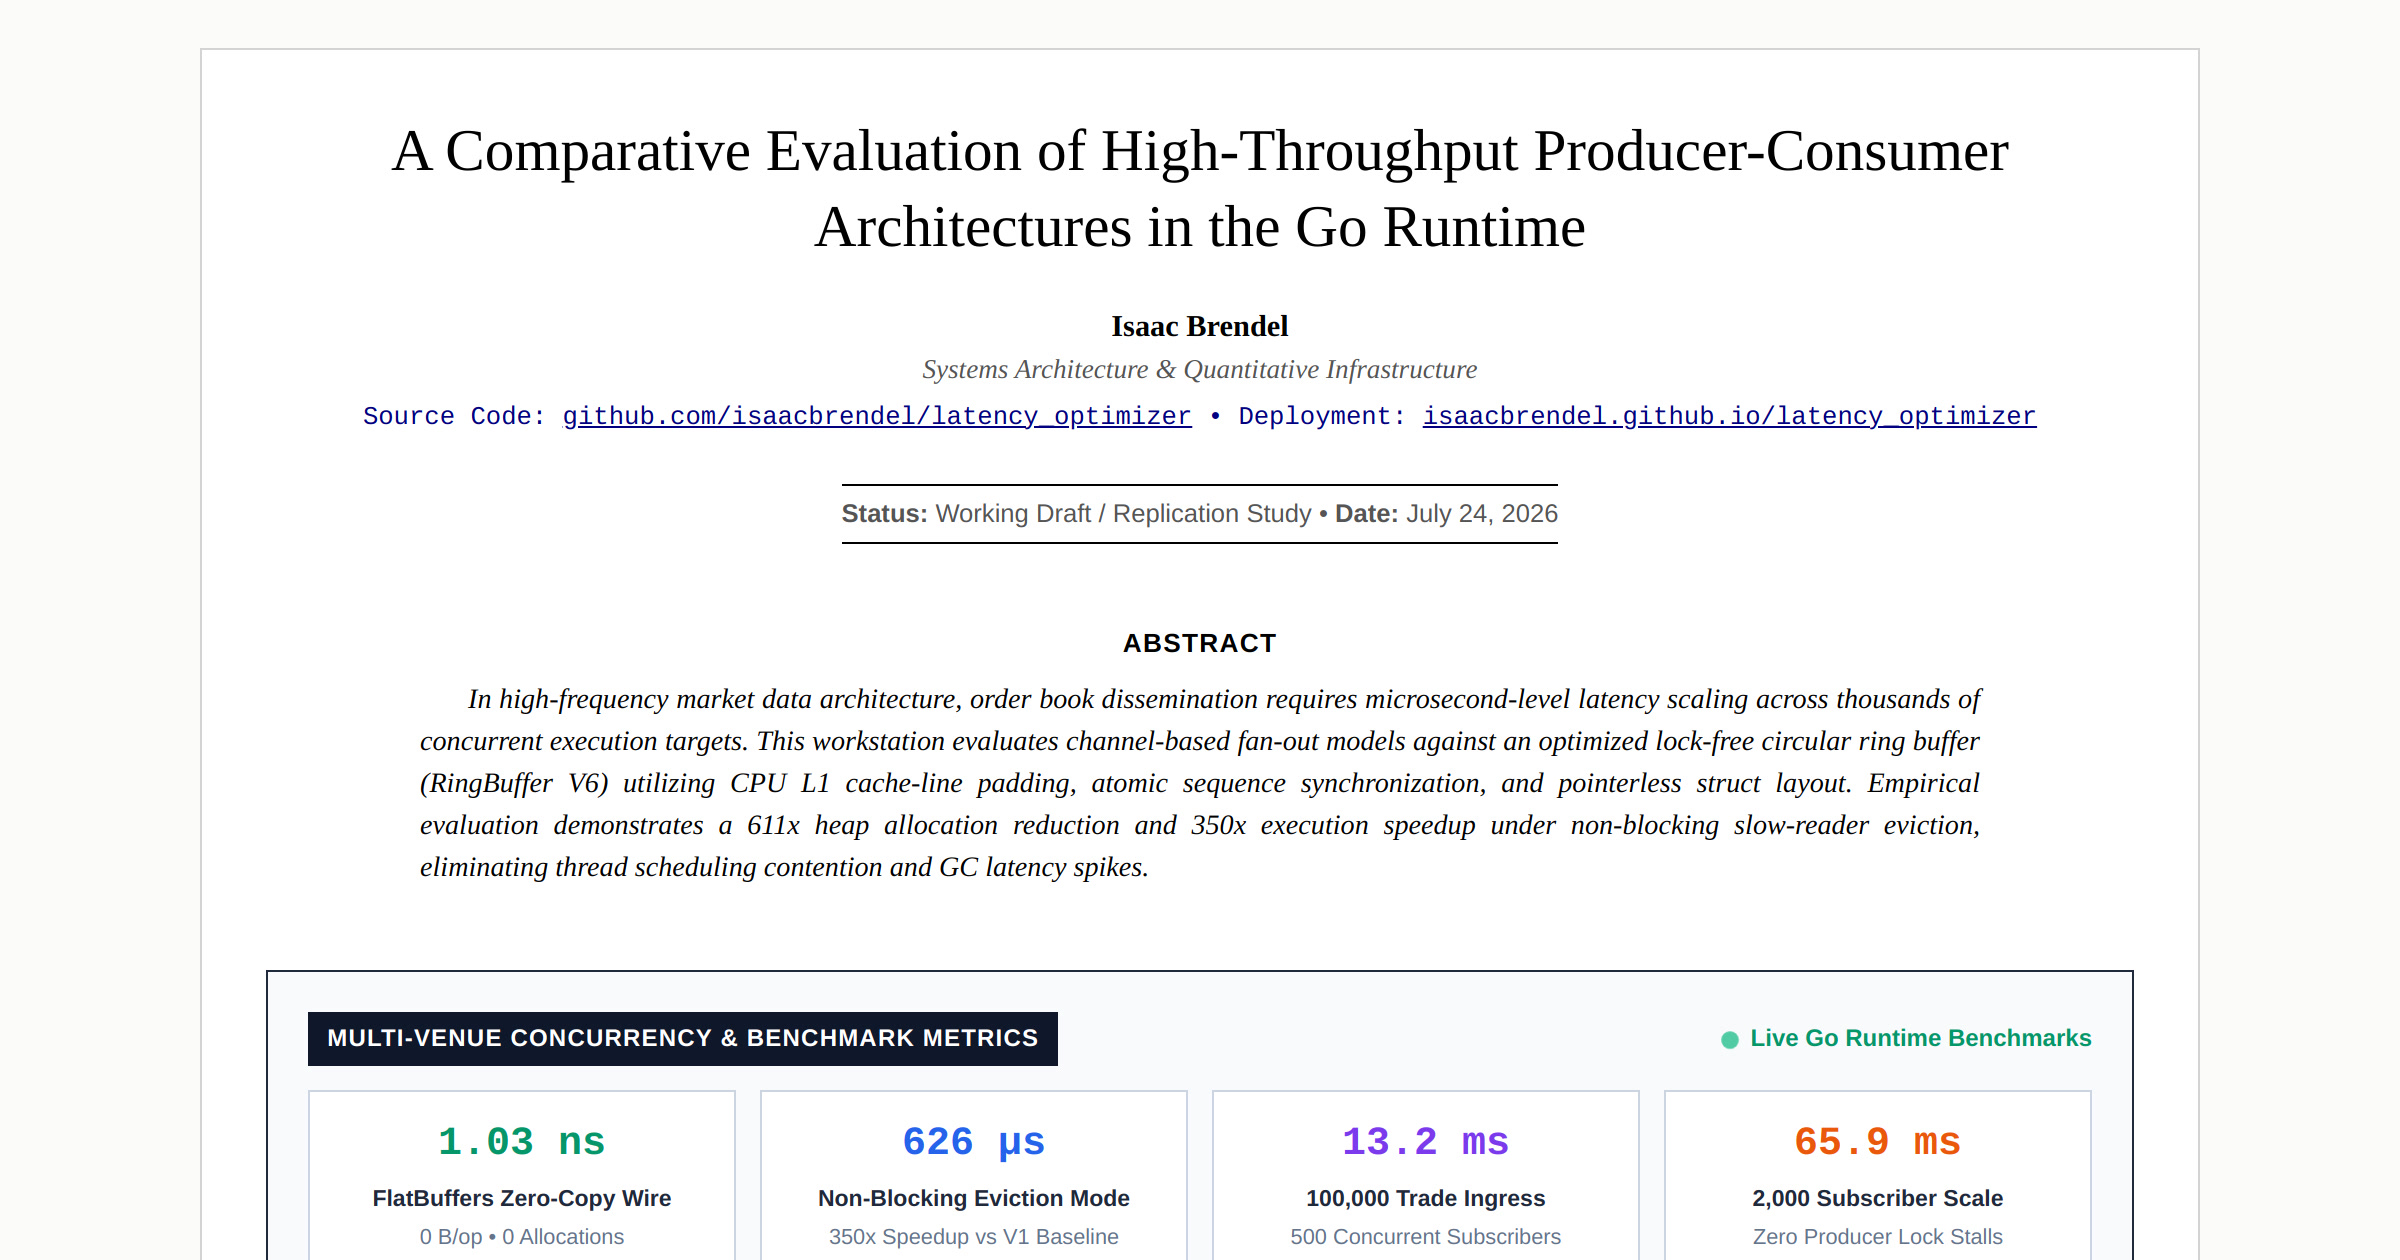
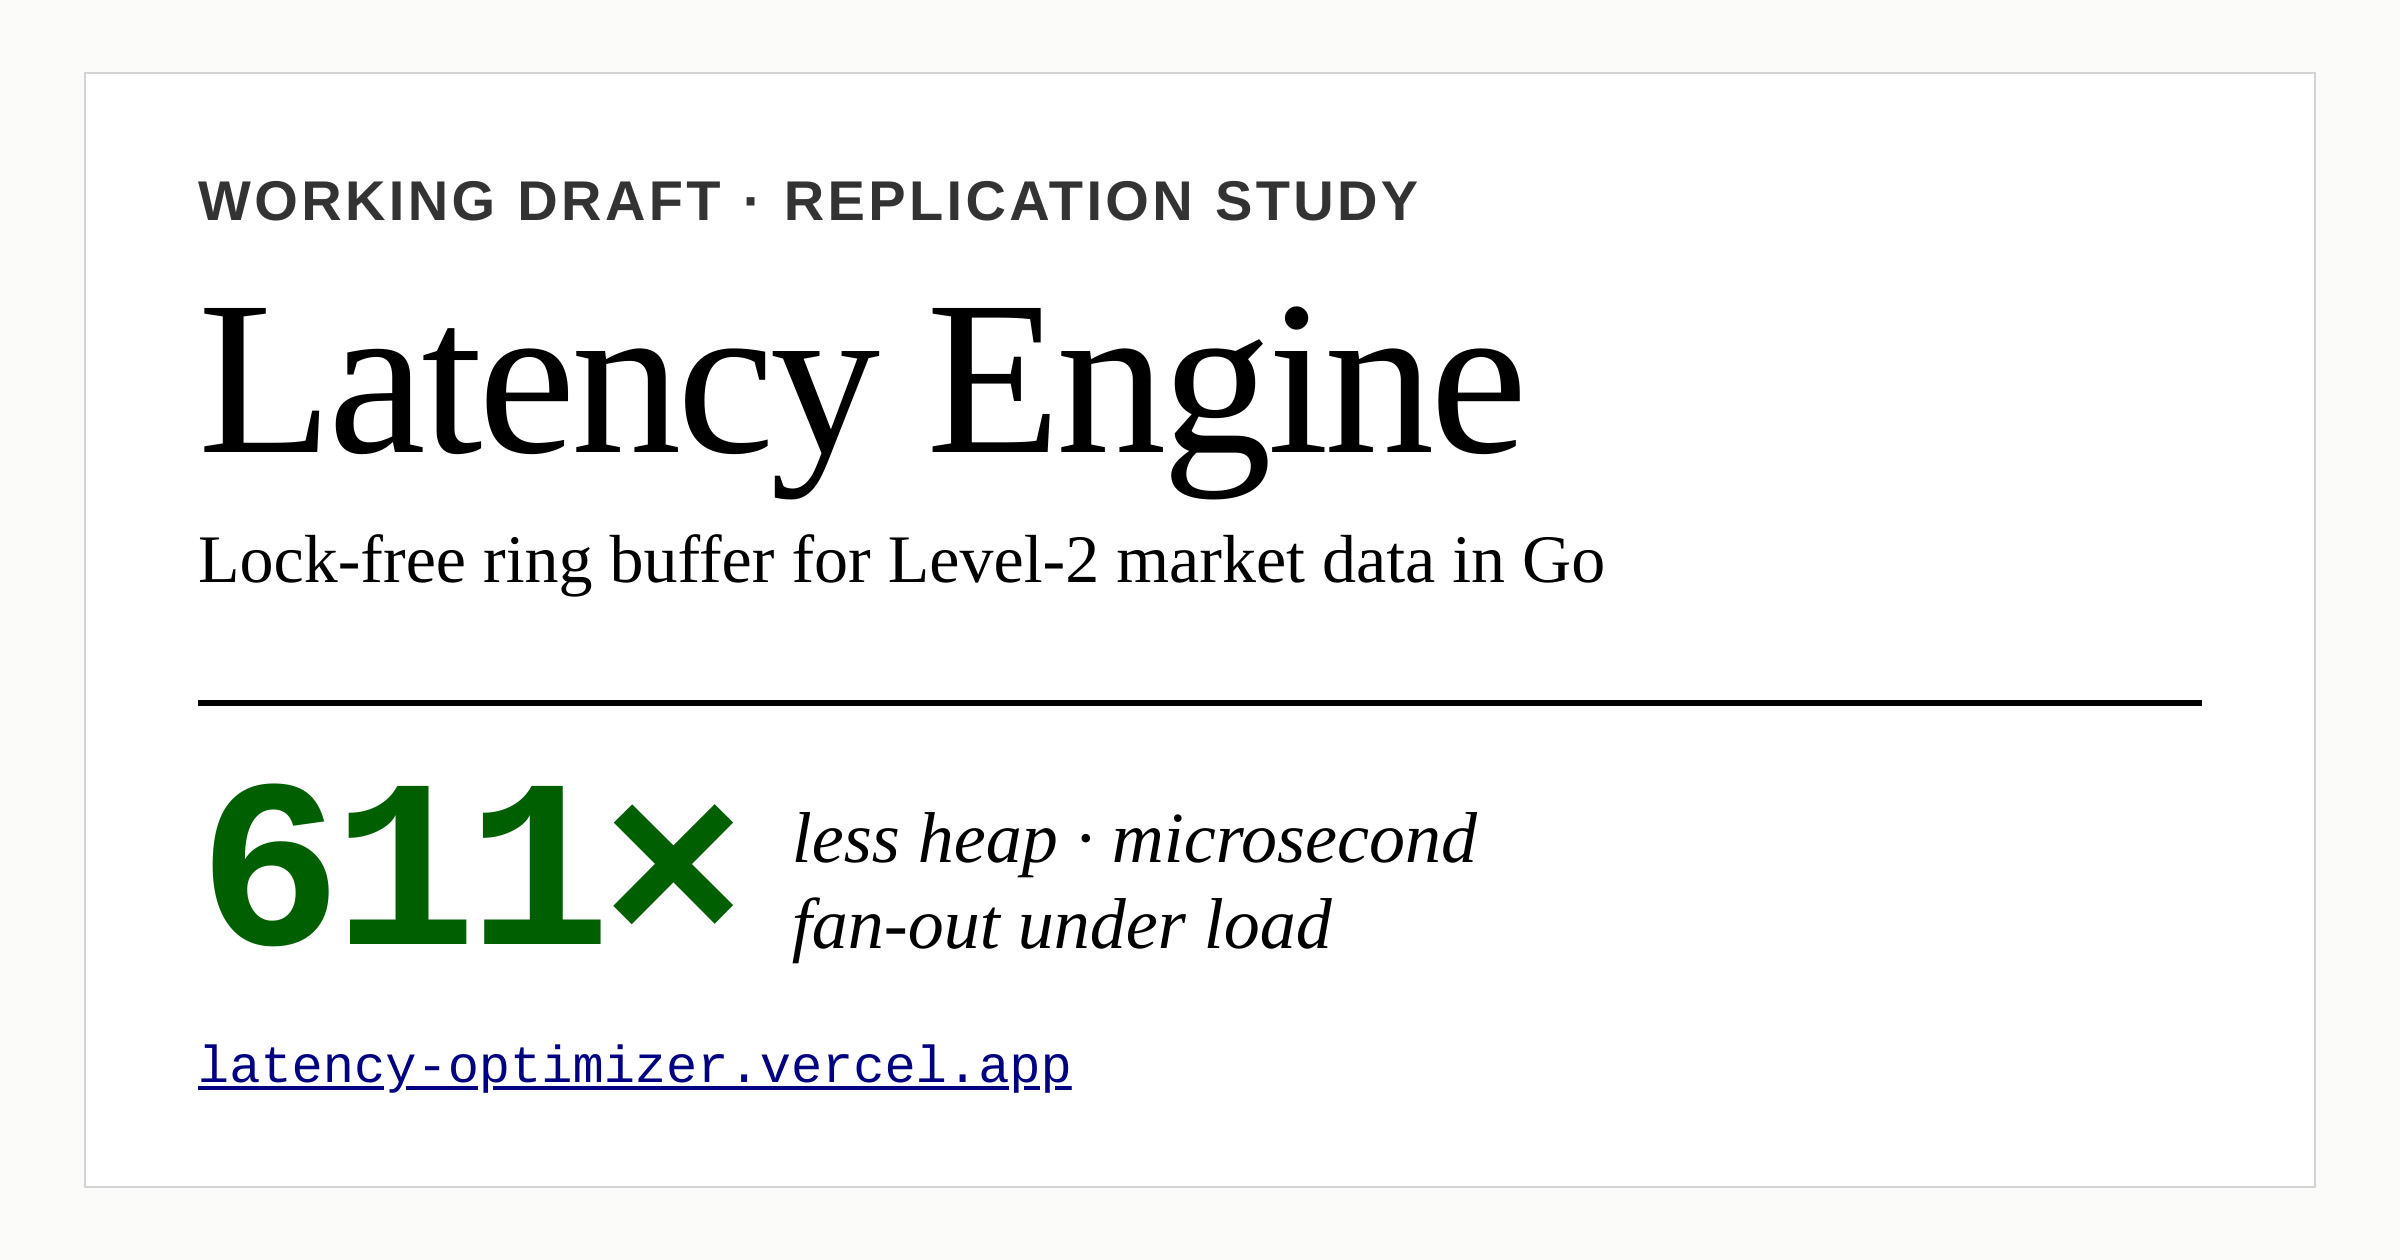
Make featured thumbnail readable at LinkedIn card size
Replace dense paper crops with a big-type academic card: huge title,
huge 611× punch, short subcopy — verified at ~300–380px preview width.

diff --git a/docs/assets/og-compose.html b/docs/assets/og-compose.html
@@ -1,95 +1,97 @@
 <!DOCTYPE html>
 <html lang="en">
 <head>
-<meta charset="UTF-8" />
-<link rel="stylesheet" href="http://127.0.0.1:8780/styles.css?v=8" />
-<style>
-  html, body {
-    width: 1200px !important;
-    height: 630px !important;
-    overflow: hidden !important;
-    margin: 0 !important;
-    padding: 0 !important;
-    background: #fbfbf9 !important;
-  }
-  body {
-    padding: 28px 36px !important;
-    font-size: 13px !important;
-  }
-  .paper-container {
-    max-width: none !important;
-    width: 100% !important;
-    height: 100% !important;
-    padding: 28px 40px 24px !important;
-    margin: 0 !important;
-    overflow: hidden !important;
-    display: flex;
-    flex-direction: column;
-  }
-  .academic-title-block { margin-bottom: 1.1rem !important; }
-  .paper-title-large { font-size: 1.55rem !important; margin-bottom: 0.7rem !important; }
-  .authors-block { font-size: 0.88rem !important; margin-bottom: 0.7rem !important; }
-  .abstract-container { margin-bottom: 0.9rem !important; }
-  .abstract-container p {
-    font-size: 0.92rem !important;
-    line-height: 1.45 !important;
-    max-height: 4.6em;
-    overflow: hidden;
-  }
-  .stress-test-abstract-card { margin: 0 !important; }
-  .stress-notes { display: none !important; }
-  .balance-sheet-summary, .paper-section { display: none !important; }
-</style>
+  <meta charset="UTF-8" />
+  <title>Latency Engine — Thumbnail</title>
+  <style>
+    * { box-sizing: border-box; margin: 0; padding: 0; }
+    html, body {
+      width: 1200px;
+      height: 630px;
+      overflow: hidden;
+      background: #fbfbf9;
+      color: #000;
+      font-family: "Times New Roman", Times, Georgia, serif;
+    }
+    .page {
+      width: 1200px;
+      height: 630px;
+      padding: 36px 42px;
+    }
+    .paper {
+      width: 100%;
+      height: 100%;
+      background: #fff;
+      border: 1px solid #d3d3d3;
+      padding: 48px 56px 44px;
+      display: flex;
+      flex-direction: column;
+      justify-content: space-between;
+    }
+    .kicker {
+      font-family: Helvetica, Arial, sans-serif;
+      font-size: 28px;
+      font-weight: 700;
+      letter-spacing: 0.06em;
+      text-transform: uppercase;
+      color: #333;
+    }
+    h1 {
+      margin-top: 20px;
+      font-weight: normal;
+      font-size: 110px;
+      line-height: 0.95;
+      letter-spacing: -0.02em;
+    }
+    .sub {
+      margin-top: 18px;
+      font-size: 34px;
+      line-height: 1.25;
+      max-width: 980px;
+    }
+    .bottom {
+      border-top: 3px solid #000;
+      padding-top: 28px;
+      display: flex;
+      align-items: center;
+      gap: 28px;
+    }
+    .stat {
+      font-family: "Courier New", Courier, monospace;
+      font-size: 120px;
+      font-weight: 800;
+      color: #005f00;
+      line-height: 1;
+      letter-spacing: -0.04em;
+    }
+    .note {
+      font-size: 36px;
+      line-height: 1.2;
+      font-style: italic;
+    }
+    .url {
+      margin-top: 18px;
+      font-family: "Courier New", Courier, monospace;
+      font-size: 26px;
+      color: #000080;
+      text-decoration: underline;
+    }
+  </style>
 </head>
 <body>
-  <div class="paper-container">
-    <div class="academic-title-block">
-      <h1 class="paper-title-large">A Comparative Evaluation of High-Throughput Producer-Consumer Architectures in the Go Runtime</h1>
-      <div class="authors-block">
-        <strong>Isaac Brendel</strong><br>
-        <span class="author-affiliation">Systems Architecture &amp; Quantitative Infrastructure</span><br>
-        <span class="author-email" style="font-family: var(--font-mono); font-size: 0.78rem; margin-top: 4px; display: block;">
-          Source Code: <a href="https://github.com/isaacbrendel/latency_optimizer" style="color: var(--accent-blue); text-decoration: underline;">github.com/isaacbrendel/latency_optimizer</a> &bull;
-          Deployment: <a href="https://isaacbrendel.github.io/latency_optimizer/" style="color: var(--accent-blue); text-decoration: underline;">isaacbrendel.github.io/latency_optimizer</a>
-        </span>
+  <div class="page">
+    <div class="paper">
+      <div>
+        <div class="kicker">Working Draft · Replication Study</div>
+        <h1>Latency Engine</h1>
+        <p class="sub">Lock-free ring buffer for Level-2 market data in Go</p>
       </div>
-      <div class="manuscript-status">
-        <span><strong>Status:</strong> Working Draft / Replication Study</span> &bull;
-        <span><strong>Date:</strong> July 24, 2026</span>
-      </div>
-    </div>
-    <div class="abstract-container">
-      <h3>Abstract</h3>
-      <p>
-        In high-frequency market data architecture, order book dissemination requires microsecond-level latency scaling across thousands of concurrent execution targets. This workstation evaluates channel-based fan-out models against an optimized lock-free circular ring buffer (RingBuffer V6) utilizing CPU L1 cache-line padding, atomic sequence synchronization, and pointerless struct layout. Empirical evaluation demonstrates a 611x heap allocation reduction and 350x execution speedup under non-blocking slow-reader eviction, eliminating thread scheduling contention and GC latency spikes.
-      </p>
-    </div>
-    <div class="stress-test-abstract-card">
-      <div class="stress-header-row">
-        <span class="stress-badge">Multi-Venue Concurrency &amp; Benchmark Metrics</span>
-        <span class="stress-status"><span class="pulse-dot"></span> Live Go Runtime Benchmarks</span>
-      </div>
-      <div class="stress-metrics-grid">
-        <div class="stress-stat">
-          <span class="stat-num text-green">1.03 ns</span>
-          <span class="stat-lbl">FlatBuffers Zero-Copy Wire</span>
-          <span class="stat-sub">0 B/op &bull; 0 Allocations</span>
+      <div>
+        <div class="bottom">
+          <div class="stat">611×</div>
+          <div class="note">less heap · microsecond<br />fan-out under load</div>
         </div>
-        <div class="stress-stat">
-          <span class="stat-num text-blue">626 µs</span>
-          <span class="stat-lbl">Non-Blocking Eviction Mode</span>
-          <span class="stat-sub">350x Speedup vs V1 Baseline</span>
-        </div>
-        <div class="stress-stat">
-          <span class="stat-num text-purple">13.2 ms</span>
-          <span class="stat-lbl">100,000 Trade Ingress</span>
-          <span class="stat-sub">500 Concurrent Subscribers</span>
-        </div>
-        <div class="stress-stat">
-          <span class="stat-num text-orange">65.9 ms</span>
-          <span class="stat-lbl">2,000 Subscriber Scale</span>
-          <span class="stat-sub">Zero Producer Lock Stalls</span>
-        </div>
+        <div class="url">latency-optimizer.vercel.app</div>
       </div>
     </div>
   </div>
